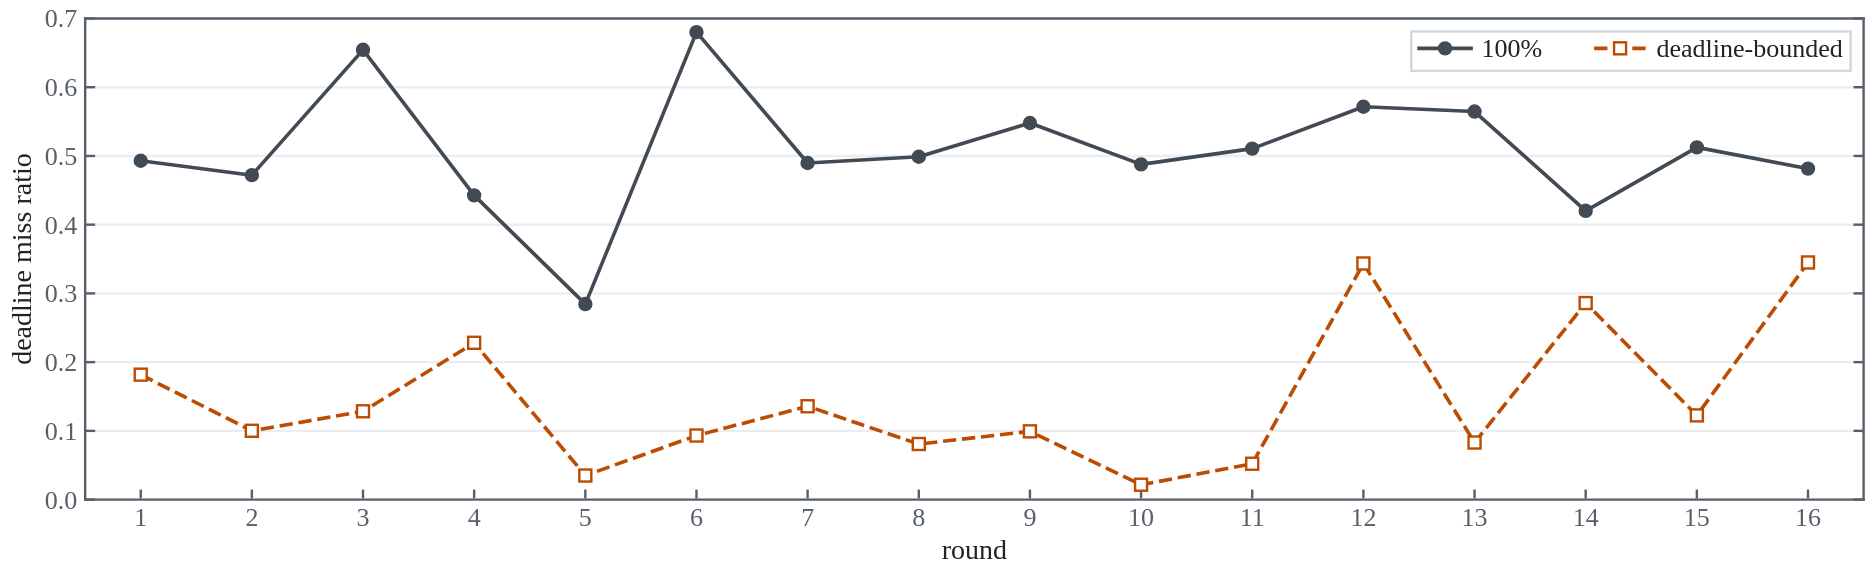
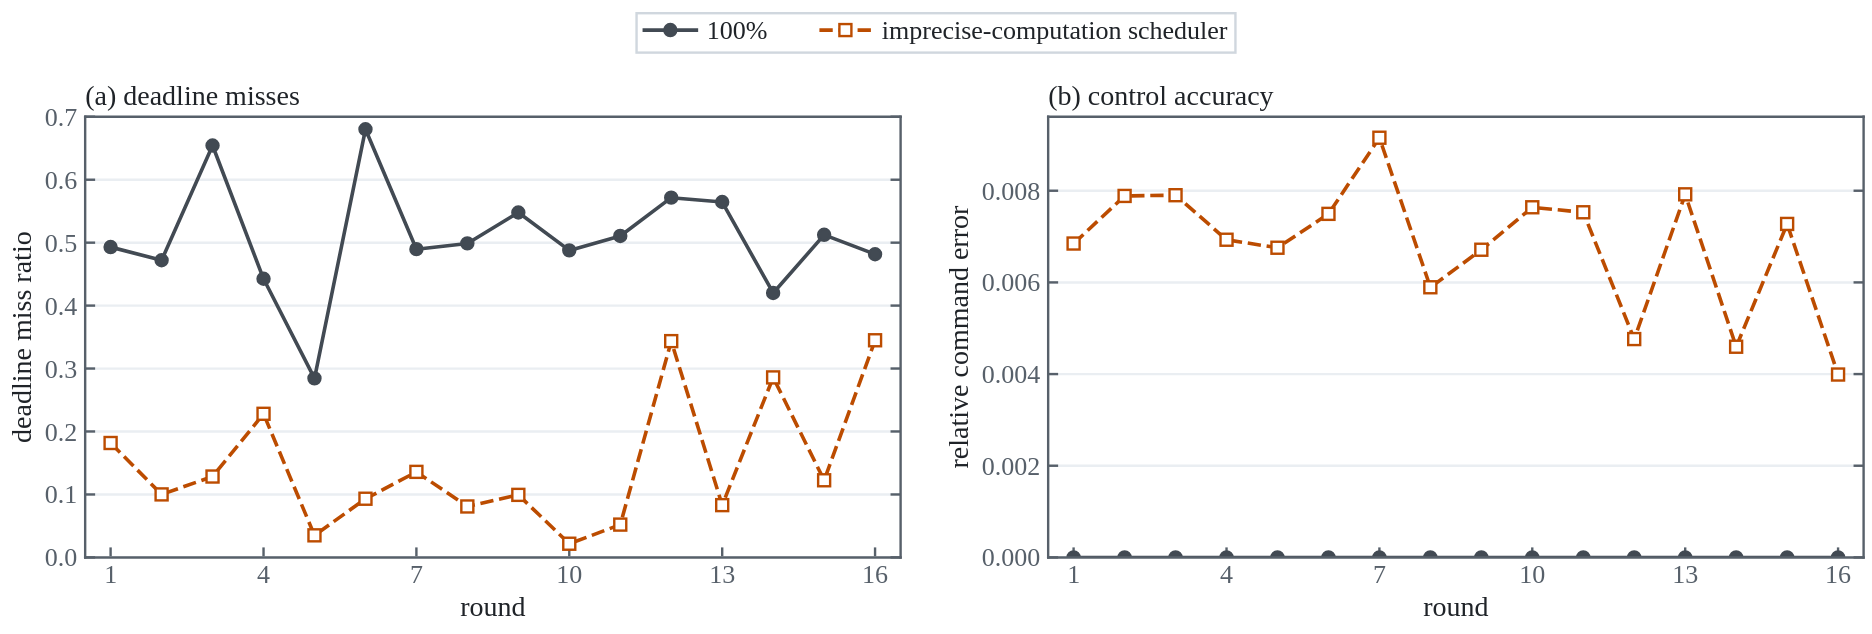
update docs

diff --git a/README.md b/README.md
@@ -1,14 +1,14 @@
 # Tempo
 
-Tempo measures how much of a real-time control loop's deadline-miss tail comes from the system (interrupts, TLB shootdowns, preemption by other work) rather than the computation (the loop's own processing of each frame).
+Tempo measures how much of the CPU time used by a hypervisor a real-time guest can observe.
 
-The loop is a four-stage pipeline (sensor, compute, actuator, telemetry), each stage its own process, passing frames over [ImageStreamIO](https://github.com/milk-org/ImageStreamIO) shared memory at a fixed period. A frame that finishes after its deadline is a miss.
+The loop is a four-stage pipeline of processes (sensor, compute, actuator, telemetry) which passes frames over [ImageStreamIO](https://github.com/milk-org/ImageStreamIO) shared memory at a fixed period T. A frame that does not finish the pipeline within T of the sensor stage is considered "a miss".
 
 ### How it measures
 
-The loop runs on the KVM hypervisor (L0), in a guest (L1) or in a guest nested inside it (L2). An injector on L0 loads the loop's cores with IPIs, TLB shootdowns, cache pressure or CPU load. Conditions are compared as ratios against a control.
+Tempo runs a control loop in a nested KVM guest (L2) while injecting IPIs, TLB shootdowns, cache pressure, and CPU load from the hypervisor (L0), with a guest (L1) and L0 for comparison. Conditions are compared as ratios against a control.
 
-Each run records L0 IPI and VM exit counts and guest steal time (`/proc/stat`, or ns from `tempo_steal`).
+Each run records the guest's steal time (`/proc/stat`, or ns from `tempo_steal`) and the IPIs and VM exits counted on L0.
 
 ### On Android
 
@@ -17,31 +17,42 @@ Tempo can run the loop as an [Android app](src/android/app/) on a VM booted with
 <!-- results-section begin -->
 ## Results
 
-From one run on my machine (AMD Ryzen 9 9950X, L0 kernel `7.3.3-1-cachyos`, commit `35d9d3a`), 6 rounds per condition at L0, L1 and L2.
+<img src="figures/steal.png" width="640" alt="Steal time against run_delay, and run_delay against CPU time used by the hypervisor, per round">
 
-![p99.9 latency ratio and guest steal time against control for each interference class at L0, L1 and L2](figures/levels.png)
+**Figure 1.** Steal time in a nested KVM guest while injecting IPIs, TLB shootdowns, and CPU load.
 
-**Figure 1.** p99.9 latency / control (a) and steal time above control (b). CPU load at 44% duty cycle, 10% at L2.
+- (a) Steal time / vCPU run_delay.
+- (b) vCPU run_delay / CPU time used by the hypervisor.
 
-![Deadline miss ratio against the duty cycle of the CPU load for each policy at L1 and L2](figures/misses.png)
+Steal time tracks vCPU run_delay (a, median 1.00), but run_delay covers a median 60% of the CPU time used by the hypervisor (b). So steal time failed to account for about 40% of the CPU time used by the hypervisor.
 
-**Figure 2.** Deadline miss ratio under CPU load.
+<img src="figures/adapt.png" width="640" alt="Deadline misses and control accuracy per round, 100% and the imprecise-computation scheduler">
+
+**Figure 2.** Deadline misses and control accuracy under CPU load.
+
+- (a) Deadline miss ratio per round, 100% and the imprecise-computation scheduler.
+- (b) Relative command error per round.
+
+The imprecise-computation scheduler relies on the loop's execution time instead of steal time. It reduced deadline misses by about a factor of 4.5 (16/16, p = 3.1e-05), at a small cost in control accuracy (median relative command error 0.0071).
+
+<img src="figures/levels.png" width="640" alt="p99.9 latency and steal time against control for IPIs, TLB shootdowns, cache pressure and CPU load at L0, L1 and L2">
+
+**Figure 3.** Interference at L0, L1 and L2 while injecting IPIs, TLB shootdowns, cache pressure, and CPU load.
+
+- (a) p99.9 latency / control.
+- (b) Steal time above control.
+
+CPU load at 44% duty cycle, 10% at L2. AMD Ryzen 9 9950X, L0 kernel `7.3.3-1-cachyos`, commit `35d9d3a`.
+
+<img src="figures/misses.png" width="640" alt="Deadline miss ratio against the duty cycle of the CPU load for each policy at L1 and L2">
+
+**Figure 4.** Deadline misses under CPU load.
 
 | Median ratio (duty cycle) | L1, 44% | L2, 30% |
 |---|---|---|
-| Miss ratio, measured margin / 100% | 0 (6/6, p = 0.031) | 0.05 (6/6, p = 0.031) |
-| Miss ratio, fixed margin / 100% | 0 (6/6, p = 0.031) | 0.92 (6/6, p = 0.031) |
+| Deadline misses, measured margin / 100% | 0 (6/6, p = 0.031) | 0.05 (6/6, p = 0.031) |
+| Deadline misses, fixed margin / 100% | 0 (6/6, p = 0.031) | 0.92 (6/6, p = 0.031) |
 | p99.9, PREEMPT_RT / non-RT guest kernel (100%, 44%) | 1.04 (1/6, p = 0.22) | n/a |
-
-![Guest steal / host vCPU run_delay, and host vCPU run_delay / guest runtime lost, per round](figures/steal.png)
-
-**Figure 3.** (a) Guest steal / host vCPU run_delay. (b) Host vCPU run_delay / guest runtime lost.
-
-![Deadline miss ratio per round, 100% workload and deadline-bounded](figures/adapt.png)
-
-**Figure 4.** CPU load. Medians 0.496 and 0.111: 4.5× (16/16, p = 3.1e-05).
-
-Guest steal, from host vCPU run_delay, misses a median 40% of lost guest runtime. Deadline-bounded work cuts deadline misses 4.5× at a median relative command error of 0.0071.
 <!-- results-section end -->
 
 ## Build
